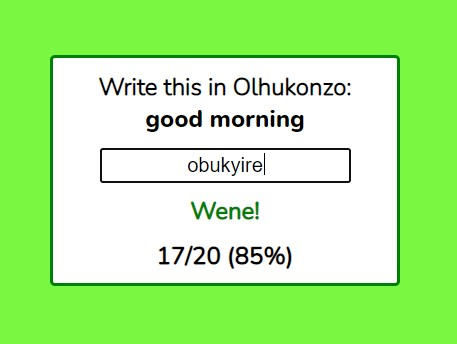
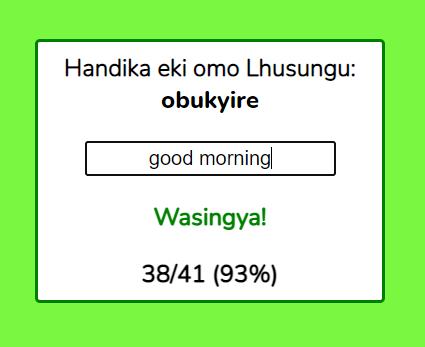
Update readme

Changed region(s): [[0.0612, 0.0872, 0.9176, 0.8721], [0.3671, 0.5814, 0.6424, 0.6686]]

diff --git a/src/app.js b/src/app.js
@@ -3,7 +3,7 @@ import verbsFile from './vocab.txt';
 import correctSoundFile from './sounds/correct.wav';
 import incorrectSoundFile from './sounds/incorrect.wav';
 import { FontAwesomeIcon } from '@fortawesome/react-fontawesome'
-import { faVolumeMute, faVolumeUp } from '@fortawesome/free-solid-svg-icons'
+import { faVolumeMute, faVolumeUp, faArrowDown, faArrowUp } from '@fortawesome/free-solid-svg-icons'
 
 const correctSound = new Audio(correctSoundFile);
 const incorrectSound = new Audio(incorrectSoundFile);
@@ -59,7 +59,6 @@ class App extends React.Component {
     let categorySets;
     let language;
     let writeThisIn;
-    let languageName;
     let english;
     let correctMessages;
     let incorrectMessages;
@@ -77,10 +76,9 @@ class App extends React.Component {
     const languageSets = text.trim().split(/\s*\n\s*\n\s*\n\s*/);
     languageSets.forEach(languageSet => {
       [info, ...categorySets] = languageSet.split(/\s*\n\s*\n\s*/);
-      [language, allWord, writeThisIn, languageName, english, correctMessages, incorrectMessages, tryMessage, orMessage] = info.split(/\s*\n\s*/);
+      [language, english, allWord, writeThisIn, correctMessages, incorrectMessages, tryMessage, orMessage] = info.split(/\s*\n\s*/);
       languages[language] = {
         writeThisIn: writeThisIn.split(/:\s*/)[1],
-        languageName: languageName.split(/:\s*/)[1],
         english: english.split(/:\s*/)[1],
         correctMessages: correctMessages.split(/:\s*/)[1].split('/'),
         incorrectMessages: incorrectMessages.split(/:\s*/)[1].split('/'),
@@ -194,7 +192,6 @@ class App extends React.Component {
           (this.state.direction === 'bothWays' ||
             (this.state.direction === 'toEnglish' && problem.toEnglish) ||
             (this.state.direction === 'toTargetLanguage' && !problem.toEnglish)));
-    console.log(problems);
     for (let i = 0; i < incorrectAnswerRetryInterval; i++) {
       problemQueue.push(this.getRandomProblem(problems));
     }
@@ -295,7 +292,7 @@ class App extends React.Component {
         break;
       case 'chooseLanguage':
         content = (
-          <div id="options">
+          <div className="options">
             {Object.keys(this.state.languages).map(language => (
               <button key={language} onClick={() => this.chooseLanguage(language)}>{language}</button>
             ))}
@@ -304,22 +301,27 @@ class App extends React.Component {
         break;
       case 'chooseDirection':
         content = (
-          <div id="options">
-            <button key={'toEnglish'} onClick={() => this.chooseDirection('toEnglish')}>
-              Translate {this.state.language} to English
-            </button>
-            <button key={'toTargetLanguage'} onClick={() => this.chooseDirection('toTargetLanguage')}>
-              Translate English to {this.state.language}
-            </button>
-            <button key={'bothWays'} onClick={() => this.chooseDirection('bothWays')}>
-              Translate both ways
-            </button>
+          <div className="options vertical-options">
+            <p className="language-for-direction">{this.state.language}</p>
+            <div className="options">
+              <button key={'toEnglish'} onClick={() => this.chooseDirection('toEnglish')}>
+                <FontAwesomeIcon icon={faArrowDown} />
+              </button>
+              <button key={'bothWays'} className="bidirectional-arrows" onClick={() => this.chooseDirection('bothWays')}>
+              <FontAwesomeIcon className="bidirectional-up-arrow" icon={faArrowUp} />
+              <FontAwesomeIcon className="bidirectional-down-arrow" icon={faArrowDown} />
+              </button>
+              <button key={'toTargetLanguage'} onClick={() => this.chooseDirection('toTargetLanguage')}>
+                <FontAwesomeIcon icon={faArrowUp} />
+              </button>
+            </div>
+            <p className="language-for-direction">{this.state.languageInfo.english}</p>
           </div>
         );
         break;
       case 'chooseCategory':
           content = (
-            <div id="options">
+            <div className="options">
               {[this.state.languageInfo.allWord, ...this.state.languageInfo.categories].map(category =>
                 <button key={category} onClick={() => this.chooseCategory(category)}>{category}</button>
               )}
@@ -337,7 +339,7 @@ class App extends React.Component {
           <div id="game-box">
             <div>
               <h2 className="light-font">{this.state.languageInfo.writeThisIn} {problem.toEnglish ?
-                this.state.languageInfo.english : this.state.languageInfo.languageName}:</h2>
+                this.state.languageInfo.english : this.state.language}:</h2>
               <h2><span className="extra-bold-font">{problem.question}</span></h2>
             </div>
             <InputBox value={this.props.input}

diff --git a/src/styles.css b/src/styles.css
@@ -84,11 +84,21 @@ h1, h2, h3, h4, h5 {
   right: 3px;
 }
 
-#options {
+.options {
   display: flex;
   gap: 10px 10px;
   flex-wrap: wrap;
   justify-content: center;
+  align-items: center;
+}
+
+.vertical-options {
+  flex-direction: column;
+}
+
+.bidirectional-arrows {
+  display: flex;
+  flex-direction: column;
 }
 
 button {
@@ -131,6 +141,19 @@ button:hover, button:focus {
 
 #incorrect {
   color: red;
+}
+
+.bidirectional-up-arrow {
+  margin-bottom: -2px;
+}
+
+.bidirectional-down-arrow {
+  margin-top: -2px;
+}
+
+.language-for-direction {
+  font-size: 30px;
+  font-family: Nunito, sans-serif;
 }
 
 @media (max-width: 700px) {

diff --git a/README.md b/README.md
@@ -9,28 +9,30 @@ Welcome to *Duokonjo* - a lame version of [duolingo.com](https://www.duolingo.co
 In the command prompt, navigate into the `duokonjo` folder. To run the program in development, run `npm start`. To run the program for production, run `npm run build` and then `serve build`. (You must first have npm and install `serve` with `npm install -g serve` if you haven't already.) You will then be directed to go to an address such as http://localhost:5000 in a browser.
 
 ## Playing the game
-Choose your language and category to begin (see "adding vocab" to learn how to add another language). The game will prompt you with a word or phrase in English or the language you're learning. Translate the word or phrase and type your answer in the input box, then press enter to see if you're right. Repeat ad infinitum!
+Choose your language, translation direction, and category to begin (see "adding vocab" to learn how to add another language). The game will prompt you with a word or phrase in English or the language you're learning. Translate the word or phrase and type your answer in the input box, then press enter to see if you're right. Repeat ad infinitum!
 
 ## Adding vocab
 To add vocab, edit `src/vocab.txt` and then re-build the program with `npm run build`. Just follow the spacing pattern of the existing vocab, or use these instructions if you want them spelled out:
 1. Separate each language section (e.g. all the Portuguese words) with two blank lines.
-2. The first four lines of each language section should contain:
+2. The first eight lines of each language section should contain:
     1. The name of the language
-    2. "write this in: " followed by the phrase for "write this in" in that language
-    3. "english: " followed by the word for "english" in that language
-    4. "correct: " followed by the options for messages to display when the player answers correctly, separated by forward slashes
-    5. "incorrect: " followed by the options for messages to display when the player answers incorrectly, separated by forward slashes
-    6. "try: " followed by the word for "try" in that language
-    7. "or: " followed by the word for "or" in that language
+    2. "English: " followed by the word for "English" in that language
+    3. "All: " followed by the word for "all" in that language
+    4. "Write this in: " followed by the phrase for "write this in" in that language
+    5. "Correct: " followed by the options for messages to display when the player answers correctly, separated by forward slashes
+    6. "Incorrect: " followed by the options for messages to display when the player answers incorrectly, separated by forward slashes
+    7. "Try: " followed by the word for "try" in that language
+    8. "Or: " followed by the word for "or" in that language
 
     - For example, the first four lines of the Portuguese section could be:
       > Portugués<br>
-      > write this in: Escreve isto em<br>
-      > english: Inglés<br>
-      > correct: Correto!/Ótimo!/Fixe!<br>
-      > incorrect: Incorreto./Opa./Não.<br>
-      > try: Tente
-      > or: ou
+      > English: Inglés<br>
+      > All: Todas<br>
+      > Write this in: Escreve isto em<br>
+      > Correct: Correto!/Ótimo!/Fixe!<br>
+      > Incorrect: Incorreto./Opa./Não.<br>
+      > Try: Tente
+      > Or: ou
 3. Include a blank line after the above header information for each language section.
 4. Within each language section, separate each vocab section (e.g. all the greetings)
    with a blank line.
